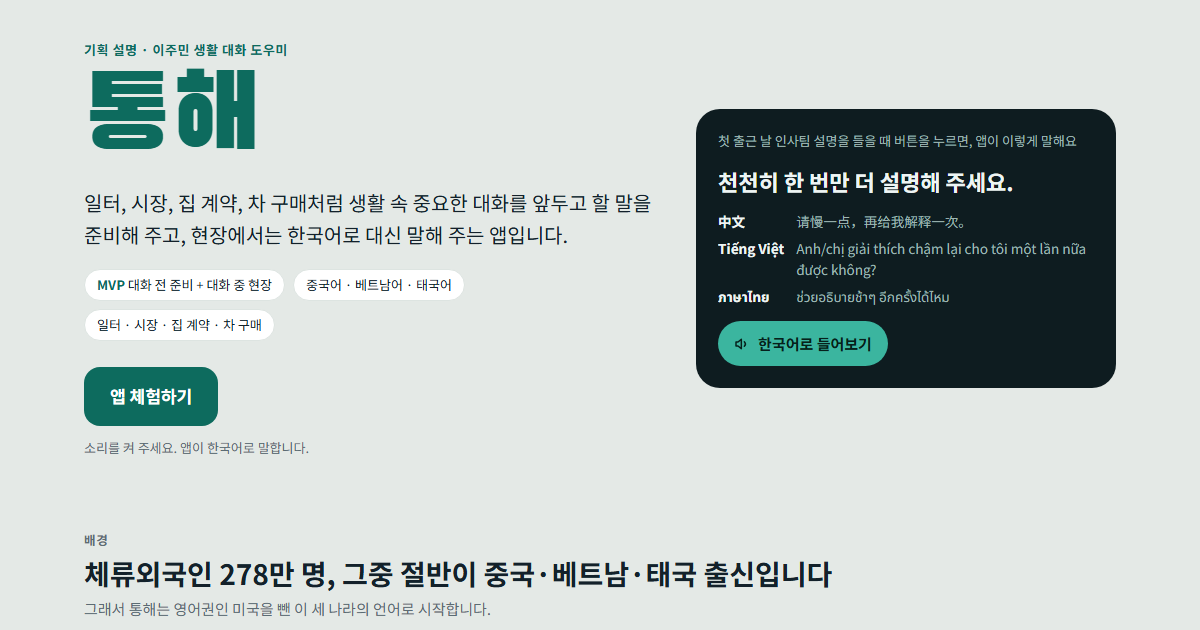
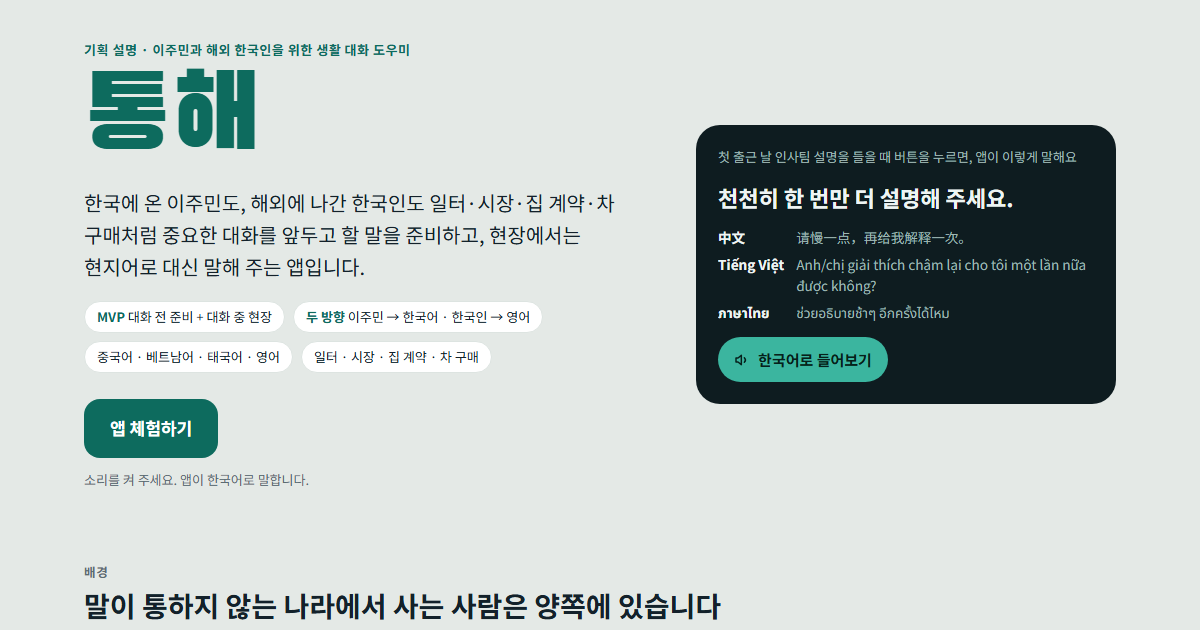
Plan intro: two directions (migrants to Korean, Koreans abroad to English)

diff --git a/index.html b/index.html
@@ -450,6 +450,10 @@ h2.big{font-size:23px;line-height:1.3;margin:0;text-wrap:balance}
 .i-end p{margin:4px 0 0;color:#c8d3d6}
 .i-end .btn-lg{background:#3bb59f;color:#06201b}
 .back-intro{border:0;background:transparent;color:var(--muted);font-size:12.5px;padding:4px 8px;border-radius:8px;text-decoration:underline}
+.i-stats.three{grid-template-columns:repeat(3,minmax(0,1fr))}
+.i-bg.two{grid-template-columns:repeat(2,minmax(0,1fr))}
+.scene .say em{display:block;font-style:normal;font-weight:500;font-size:12.5px;color:var(--muted);margin-top:2px}
+@media (max-width:860px){ .i-stats.three,.i-bg.two{grid-template-columns:1fr} }
 .i-tip{position:fixed;z-index:80;pointer-events:none;background:var(--ink);color:#fff;font-size:12.5px;padding:7px 10px;border-radius:8px;max-width:240px;box-shadow:0 6px 18px rgba(0,0,0,.2)}
 
 @media (max-width:960px){
@@ -505,12 +509,13 @@ body.standalone .call-dock{padding-bottom:max(16px,env(safe-area-inset-bottom,0p
   <!-- 1. 한 줄 소개 -->
   <section class="i-hero">
     <div>
-      <p class="i-eyebrow">기획 설명 · 이주민 생활 대화 도우미</p>
+      <p class="i-eyebrow">기획 설명 · 이주민과 해외 한국인을 위한 생활 대화 도우미</p>
       <h1 class="i-logo">통해</h1>
-      <p class="i-lead">일터, 시장, 집 계약, 차 구매처럼 생활 속 중요한 대화를 앞두고 할 말을 준비해 주고, 현장에서는 한국어로 대신 말해 주는 앱입니다.</p>
+      <p class="i-lead">한국에 온 이주민도, 해외에 나간 한국인도 일터·시장·집 계약·차 구매처럼 중요한 대화를 앞두고 할 말을 준비하고, 현장에서는 현지어로 대신 말해 주는 앱입니다.</p>
       <div class="i-chips">
         <span><b>MVP</b> 대화 전 준비 + 대화 중 현장</span>
-        <span>중국어 · 베트남어 · 태국어</span>
+        <span><b>두 방향</b> 이주민 → 한국어 · 한국인 → 영어</span>
+        <span>중국어 · 베트남어 · 태국어 · 영어</span>
         <span>일터 · 시장 · 집 계약 · 차 구매</span>
       </div>
       <div class="i-cta">
@@ -531,34 +536,47 @@ body.standalone .call-dock{padding-bottom:max(16px,env(safe-area-inset-bottom,0p
     </div>
   </section>
 
-  <!-- 2. 배경: 왜 이 세 언어인가 -->
+  <!-- 2. 배경: 두 방향 -->
   <section class="i-sec" aria-labelledby="h-bg">
     <div class="i-head">
       <p class="i-kicker">배경</p>
-      <h2 id="h-bg">체류외국인 278만 명, 그중 절반이 중국·베트남·태국 출신입니다</h2>
-      <p>그래서 통해는 영어권인 미국을 뺀 이 세 나라의 언어로 시작합니다.</p>
+      <h2 id="h-bg">말이 통하지 않는 나라에서 사는 사람은 양쪽에 있습니다</h2>
+      <p>한국에 온 이주민과 해외에 나간 한국인 모두, 일하고 장을 보고 집과 차를 구하는 대화를 외국어로 해야 합니다.</p>
     </div>
-    <div class="i-bg">
-      <div class="i-stats">
-        <div class="i-stat"><span class="num">278만<small>명</small></span><p>2025년 말 국내 체류외국인. 인구의 5.44%로 1년 새 5.0% 늘었습니다.</p></div>
-        <div class="i-stat"><span class="num">43.3<small>%</small></span><p>한국 생활에서 가장 어려운 점으로 '언어'를 꼽은 비율 (1위)</p></div>
-        <div class="i-stat"><span class="num">9.8만<small>명</small></span><p>2025년 베트남 장기 입국자. 통계 작성 이후 처음으로 중국(9.4만 명)을 앞섰습니다.</p></div>
-      </div>
+    <div class="i-stats three">
+      <div class="i-stat"><span class="num">278만<small>명</small></span><p>2025년 말 국내 체류외국인. 인구의 5.44%이고, 한국 생활의 가장 큰 어려움으로 언어(43.3%)를 꼽습니다.</p></div>
+      <div class="i-stat"><span class="num">240만<small>명</small></span><p>해외에 사는 재외국민(한국 국적). 미국·캐나다·호주에만 재외동포 299만 명이 삽니다.</p></div>
+      <div class="i-stat"><span class="num">54.1<small>%</small></span><p>해외 한국인 유학생 12만 9,726명 중 미국·호주·캐나다에 있는 비율</p></div>
+    </div>
+    <div class="i-bg two">
       <div class="i-panel">
-        <h3>국적별 체류외국인 비중</h3>
+        <h3>한국에 온 사람 · 국적별 체류외국인</h3>
         <p class="sub">2025년 6월 말, 전체 273만 2,797명</p>
-        <ul class="bars" data-max="40">
+        <ul class="bars">
           <li class="pick" tabindex="0" data-tip="중국 97만 2,176명 · 35.6% (한국계 포함)"><span class="lbl">중국</span><span class="track"><span class="fill" style="width:89%"></span></span><span class="val">35.6%</span></li>
           <li class="pick" tabindex="0" data-tip="베트남 34만 1,153명 · 12.5%"><span class="lbl">베트남</span><span class="track"><span class="fill" style="width:31.2%"></span></span><span class="val">12.5%</span></li>
-          <li tabindex="0" data-tip="미국 19만 6,664명 · 7.2% — 영어권이라 첫 지원 언어에서 제외"><span class="lbl">미국<small>영어권 제외</small></span><span class="track"><span class="fill" style="width:18%"></span></span><span class="val">7.2%</span></li>
+          <li class="pick" tabindex="0" data-tip="미국 19만 6,664명 · 7.2% — 영어로 지원"><span class="lbl">미국<small>영어</small></span><span class="track"><span class="fill" style="width:18%"></span></span><span class="val">7.2%</span></li>
           <li class="pick" tabindex="0" data-tip="태국 17만 3,710명 · 6.4%"><span class="lbl">태국</span><span class="track"><span class="fill" style="width:15.9%"></span></span><span class="val">6.4%</span></li>
           <li tabindex="0" data-tip="그 외 104만 9,094명 · 38.4%"><span class="lbl">그 외</span><span class="track"><span class="fill" style="width:96%"></span></span><span class="val">38.4%</span></li>
         </ul>
-        <div class="legend"><span><i style="background:var(--bar-pick)"></i>통해 지원 언어</span><span><i style="background:var(--bar-rest)"></i>그 외</span></div>
-        <p class="sum-callout">중국·베트남·태국 합계 <b>54.4%</b> — 체류외국인 두 명 중 한 명 이상이 세 언어 중 하나를 씁니다.</p>
+        <p class="sum-callout">국적 1~4위 합계 <b>61.6%</b> → 중국어·베트남어·태국어·영어로 한국어를 말합니다.</p>
+      </div>
+      <div class="i-panel">
+        <h3>해외로 나간 한국인 · 유학 국가별</h3>
+        <p class="sub">2025년 4월, 해외 한국인 유학생 12만 9,726명</p>
+        <ul class="bars">
+          <li class="pick" tabindex="0" data-tip="미국 33.3%"><span class="lbl">미국</span><span class="track"><span class="fill" style="width:83.3%"></span></span><span class="val">33.3%</span></li>
+          <li class="pick" tabindex="0" data-tip="호주 12.7%"><span class="lbl">호주</span><span class="track"><span class="fill" style="width:31.8%"></span></span><span class="val">12.7%</span></li>
+          <li tabindex="0" data-tip="일본 11.2% — 확장 언어 후보"><span class="lbl">일본<small>확장 후보</small></span><span class="track"><span class="fill" style="width:28%"></span></span><span class="val">11.2%</span></li>
+          <li tabindex="0" data-tip="중국 8.2%"><span class="lbl">중국</span><span class="track"><span class="fill" style="width:20.5%"></span></span><span class="val">8.2%</span></li>
+          <li class="pick" tabindex="0" data-tip="캐나다 8.1%"><span class="lbl">캐나다</span><span class="track"><span class="fill" style="width:20.3%"></span></span><span class="val">8.1%</span></li>
+          <li tabindex="0" data-tip="그 외 26.5%"><span class="lbl">그 외</span><span class="track"><span class="fill" style="width:66.3%"></span></span><span class="val">26.5%</span></li>
+        </ul>
+        <p class="sum-callout">영어권 3개국 합계 <b>54.1%</b> → 한국어 화면으로 보고 영어로 말합니다.</p>
       </div>
     </div>
-    <p class="i-src">출처: 법무부 출입국외국인정책본부 체류외국인 통계 · 통계청·법무부 2022 이민자체류실태 및 고용조사 · 국가데이터처 2025 국제인구이동통계</p>
+    <div class="legend"><span><i style="background:var(--bar-pick)"></i>통해 MVP 지원 언어</span><span><i style="background:var(--bar-rest)"></i>그 외</span></div>
+    <p class="i-src">출처: 법무부 출입국외국인정책본부 체류외국인 통계 · 재외동포청 2025 재외동포현황(2024년 말 기준) · 교육부 해외 한국인 유학생 현황(2025년 4월) · 통계청·법무부 2022 이민자체류실태 및 고용조사</p>
   </section>
 
   <!-- 3. 문제: 생활 곳곳의 대화 -->
@@ -566,7 +584,7 @@ body.standalone .call-dock{padding-bottom:max(16px,env(safe-area-inset-bottom,0p
     <div class="i-head">
       <p class="i-kicker">문제</p>
       <h2 id="h-scene">말이 통하지 않는 순간은 생활 곳곳에 있습니다</h2>
-      <p>무엇을 물어야 하는지 모르면, 번역이 정확해도 꼭 확인할 것을 놓칩니다. 통해의 MVP는 아래 네 장면에서 시작합니다.</p>
+      <p>무엇을 물어야 하는지 모르면, 번역이 정확해도 꼭 확인할 것을 놓칩니다. 통해의 MVP는 아래 네 장면에서 시작하며, 한국과 영어권에서 같은 장면을 나라별 체크리스트로 돕습니다.</p>
     </div>
     <div class="i-scenes">
       <article class="scene">
@@ -574,28 +592,28 @@ body.standalone .call-dock{padding-bottom:max(16px,env(safe-area-inset-bottom,0p
         <h3>일터</h3>
         <p class="when">첫 출근 날 인사팀 대응, 월급·근무 시간 문의</p>
         <ul><li>근무·휴게 시간</li><li>월급날·급여 계좌</li><li>연장·야간 수당</li><li>제출 서류</li></ul>
-        <p class="say"><span>이렇게 말해요</span>"제출할 서류를 다시 알려 주세요."</p>
+        <p class="say"><span>이렇게 말해요</span>"제출할 서류를 다시 알려 주세요."<em>Could you tell me which documents I need again?</em></p>
       </article>
       <article class="scene">
         <span class="ico"><svg viewBox="0 0 24 24" fill="none" stroke="currentColor" stroke-width="1.9" stroke-linejoin="round"><path d="M5 8h14l-1.2 12H6.2z"/><path d="M9 8V6a3 3 0 016 0v2"/></svg></span>
         <h3>시장·가게</h3>
         <p class="when">가격 묻기, 수량·단위, 교환·환불</p>
         <ul><li>단위당 가격</li><li>결제 방법</li><li>영수증</li><li>교환·환불 기한</li></ul>
-        <p class="say"><span>이렇게 말해요</span>"이거 1kg에 얼마예요?"</p>
+        <p class="say"><span>이렇게 말해요</span>"이거 1kg에 얼마예요?"<em>How much is this per kilo?</em></p>
       </article>
       <article class="scene">
         <span class="ico"><svg viewBox="0 0 24 24" fill="none" stroke="currentColor" stroke-width="1.9" stroke-linejoin="round"><path d="M3 11l9-7 9 7"/><path d="M5 10v10h14V10"/><path d="M10 20v-6h4v6"/></svg></span>
         <h3>집 계약</h3>
         <p class="when">집 보기, 계약서 쓰기, 보증금 돌려받기</p>
         <ul><li>등기부등본</li><li>집주인 본인 확인</li><li>보증금·월세·관리비</li><li>전입신고·확정일자</li></ul>
-        <p class="say"><span>이렇게 말해요</span>"보증금은 언제 돌려받나요?"</p>
+        <p class="say"><span>이렇게 말해요</span>"보증금은 언제 돌려받나요?"<em>When do I get my deposit back?</em></p>
       </article>
       <article class="scene">
         <span class="ico"><svg viewBox="0 0 24 24" fill="none" stroke="currentColor" stroke-width="1.9" stroke-linejoin="round"><path d="M3 15v-3l2-5h14l2 5v3z"/><circle cx="7.5" cy="16.5" r="1.8"/><circle cx="16.5" cy="16.5" r="1.8"/><path d="M5 12h14"/></svg></span>
         <h3>차 구매</h3>
         <p class="when">중고차 보기, 가격 협상, 명의 이전</p>
         <ul><li>성능·상태점검기록부</li><li>사고·침수 이력</li><li>총 비용</li><li>명의 이전 서류</li></ul>
-        <p class="say"><span>이렇게 말해요</span>"성능점검기록부를 보여 주세요."</p>
+        <p class="say"><span>이렇게 말해요</span>"성능점검기록부를 보여 주세요."<em>Can I see the vehicle history report?</em></p>
       </article>
     </div>
   </section>
@@ -651,7 +669,7 @@ body.standalone .call-dock{padding-bottom:max(16px,env(safe-area-inset-bottom,0p
     <div class="i-head">
       <p class="i-kicker">해결</p>
       <h2 id="h-sol">대화 전에는 준비하고, 대화 중에는 대신 말합니다</h2>
-      <p>MVP는 이 두 단계입니다. 대화 정리와 롤플레이 연습은 다음 단계로 확장합니다.</p>
+      <p>MVP는 이 두 단계이고, 두 방향 모두 같은 화면과 엔진을 씁니다. 대화 정리와 롤플레이 연습은 다음 단계로 확장합니다.</p>
     </div>
     <div class="i-sol">
       <article class="sol">
@@ -680,7 +698,7 @@ body.standalone .call-dock{padding-bottom:max(16px,env(safe-area-inset-bottom,0p
           <ul>
             <li>상대의 말을 모국어로 보여 줌</li>
             <li>아직 확인하지 않은 질문을 먼저 추천</li>
-            <li>고른 문장·모국어로 한 말을 한국어 음성으로</li>
+            <li>고른 문장·모국어로 한 말을 현지어(한국어·영어) 음성으로</li>
             <li>금액·날짜는 말하기 전에 다시 확인</li>
           </ul>
         </div>
@@ -705,26 +723,26 @@ body.standalone .call-dock{padding-bottom:max(16px,env(safe-area-inset-bottom,0p
       <h2 id="h-ai">AI는 대화가 오가는 흐름을 따라 세 곳에서 쓰입니다</h2>
     </div>
     <div class="pipe">
-      <div class="node"><span class="k">STT · 음성 인식</span><b>듣기</b><ul><li>상대의 한국어, 사용자의 모국어를 텍스트로</li><li>작업장·시장 같은 소음 환경 기준으로 모델 선정</li></ul></div>
+      <div class="node"><span class="k">STT · 음성 인식</span><b>듣기</b><ul><li>상대의 말과 사용자의 모국어를 텍스트로 (한국어·영어·중국어·베트남어·태국어)</li><li>작업장·시장 같은 소음 환경 기준으로 모델 선정</li></ul></div>
       <span class="arr" aria-hidden="true"><svg viewBox="0 0 24 24" fill="none" stroke="currentColor" stroke-width="2" stroke-linecap="round" stroke-linejoin="round"><path d="M5 12h14M13 6l6 6-6 6"/></svg></span>
-      <div class="node core"><span class="k">LLM · 대화 엔진</span><b>이해하고 추천하기</b><ul><li>상대의 말을 모국어로 요약</li><li>대화에서 확인된 체크리스트 항목을 판단해, 안 물어본 질문을 먼저 추천</li><li>모국어 발화를 공손한 해요체 한국어로 + 역번역</li><li>공식 자료에서만 안내 문장 인용(RAG), 법률 판단은 하지 않음</li></ul></div>
+      <div class="node core"><span class="k">LLM · 대화 엔진</span><b>이해하고 추천하기</b><ul><li>상대의 말을 모국어로 요약</li><li>대화에서 확인된 체크리스트 항목을 판단해, 안 물어본 질문을 먼저 추천</li><li>모국어 발화를 공손한 현지어(한국어 해요체·영어)로 + 역번역</li><li>공식 자료에서만 안내 문장 인용(RAG), 법률 판단은 하지 않음</li></ul></div>
       <span class="arr" aria-hidden="true"><svg viewBox="0 0 24 24" fill="none" stroke="currentColor" stroke-width="2" stroke-linecap="round" stroke-linejoin="round"><path d="M5 12h14M13 6l6 6-6 6"/></svg></span>
-      <div class="node"><span class="k">TTS · 음성 합성</span><b>대신 말하기</b><ul><li>고른 문장을 한국어 음성으로</li><li>0.7·1·1.3배속, 모국어 번역 듣기</li></ul></div>
+      <div class="node"><span class="k">TTS · 음성 합성</span><b>대신 말하기</b><ul><li>고른 문장을 한국어·영어 음성으로</li><li>0.7·1·1.3배속, 모국어 번역 듣기</li></ul></div>
     </div>
-    <div class="srcs"><b>근거 자료</b><span>표준근로계약서(다국어)</span><span>외국인 근로자 안전보건 자료</span><span>외국어 주택임대차표준계약서</span><span>중고차 성능·상태점검 안내</span><span>소비자분쟁해결기준</span></div>
+    <div class="srcs"><b>근거 자료</b><span>표준근로계약서(다국어)</span><span>외국인 근로자 안전보건 자료</span><span>외국어 주택임대차표준계약서</span><span>중고차 성능·상태점검 안내</span><span>소비자분쟁해결기준</span><span>외교부 워킹홀리데이 인포센터</span><span>재외공관 국가별 생활 안내</span></div>
   </section>
 
   <!-- 7. 목표 -->
   <section class="i-sec" aria-labelledby="h-goal">
     <div class="i-head">
       <p class="i-kicker">목표</p>
-      <h2 id="h-goal">2개월 안에 4개 상황 × 3개 언어로 동작하는 베타를 만듭니다</h2>
+      <h2 id="h-goal">2개월 안에 두 방향 × 4개 상황으로 동작하는 베타를 만듭니다</h2>
     </div>
     <ol class="road">
-      <li><span class="when">선정 후 2개월</span><b>MVP 베타</b><p>준비·현장 모드, 4개 상황, 3개 언어, iOS·안드로이드</p></li>
-      <li><span class="when">베타 직후</span><b>현장 검증</b><p>이주노동자 10명 이상, 기존 번역 앱과 비교</p></li>
-      <li><span class="when">검증 후</span><b>무료 출시</b><p>광고 없이 앱스토어·구글플레이, 지원센터에 안내 도구로 제안</p></li>
-      <li class="later"><span class="when">이후</span><b>확장</b><p>대화 정리·롤플레이, 병원·관공서·은행, 우즈베크어·네팔어</p></li>
+      <li><span class="when">선정 후 2개월</span><b>MVP 베타</b><p>준비·현장 모드, 4개 상황, 이주민 4개 언어 + 해외 한국인 영어, iOS·안드로이드</p></li>
+      <li><span class="when">베타 직후</span><b>현장 검증</b><p>이주노동자 10명 + 출국 예정 한국인 10명 이상, 기존 번역 앱과 비교</p></li>
+      <li><span class="when">검증 후</span><b>무료 출시</b><p>광고 없이 앱스토어·구글플레이, 지원센터·대학 국제처에 안내 도구로 제안</p></li>
+      <li class="later"><span class="when">이후</span><b>확장</b><p>대화 정리·롤플레이, 병원·관공서·은행, 일본어·우즈베크어·네팔어</p></li>
     </ol>
     <div class="kpis">
       <div class="kpi"><span class="num">90%+</span><p>체크리스트 항목 판별 정확도</p></div>

diff --git a/sw.js b/sw.js
@@ -1,6 +1,6 @@
 // Offline cache for the Tonghae app shell.
 // Bump VERSION whenever index.html or the icons change so installed apps pick up the update.
-const VERSION = "tonghae-v5";
+const VERSION = "tonghae-v6";
 const SHELL = [
   "./",
   "./index.html",

diff --git a/README.md b/README.md
@@ -1,6 +1,6 @@
 # 통해 (Tonghae)
 
-이주노동자가 일터·시장·집 계약·차 구매처럼 생활 속 중요한 대화를 할 때, 무엇을 물어야 하는지 미리 준비해 주고 현장에서는 한국어로 대신 말해 주는 앱입니다.
+한국에 온 이주민과 해외에 나간 한국인이 일터·시장·집 계약·차 구매처럼 생활 속 중요한 대화를 할 때, 무엇을 물어야 하는지 미리 준비해 주고 현장에서는 한국어로 대신 말해 주는 앱입니다.
 
 **바로 열기: https://ssoyoum.github.io/tonghae/**
 
@@ -11,7 +11,7 @@
 - **현장:** 추천 문장을 누르거나 모국어로 말하면 한국어로 대신 말하기, 상대방의 한국어는 모국어로 번역, 체크리스트 진행 표시와 아직 확인하지 않은 질문 추천
 - **정리 (확장 기능 미리보기):** 합의 금액, 놓친 항목, 다음 할 일, 도움 기관
 - **연습 (확장 기능 미리보기):** AI 집주인·사장님과 영상통화처럼 롤플레이, 한국어로 말해서 대답하기
-- **지원 언어:** 중국어, 베트남어, 태국어 (체류외국인 중 비영어권 상위 3개국, 합계 54.4%)
+- **지원 언어:** 현재 프로토타입은 중국어·베트남어·태국어(한국에 온 이주민 → 한국어). 기획상 MVP는 영어를 더하고, 해외에 나간 한국인을 위한 한국어 → 영어 방향까지 지원합니다.
 
 ## 프로토타입 범위
 - 상대방 대사와 롤플레이는 정해진 시나리오로 동작합니다. 출시 버전에서는 LLM이 즉흥으로 대답합니다.
